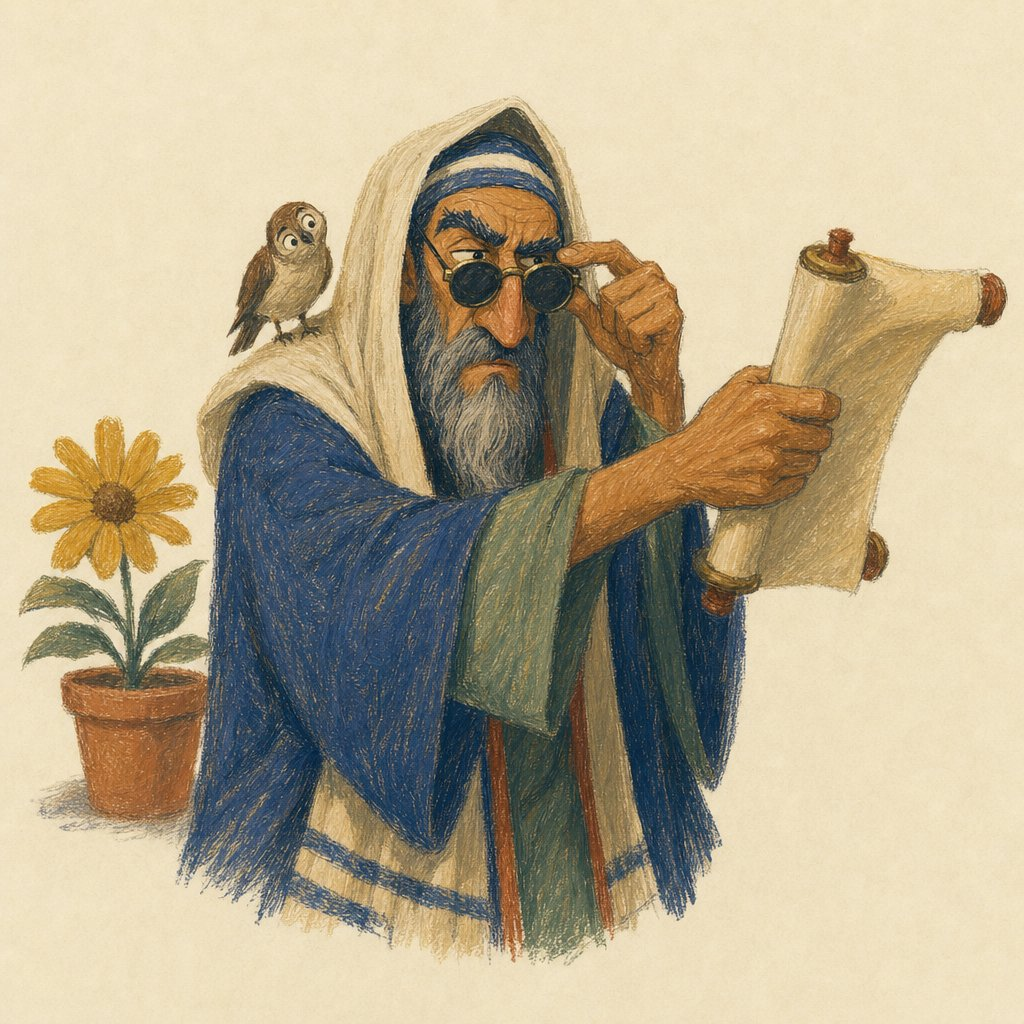
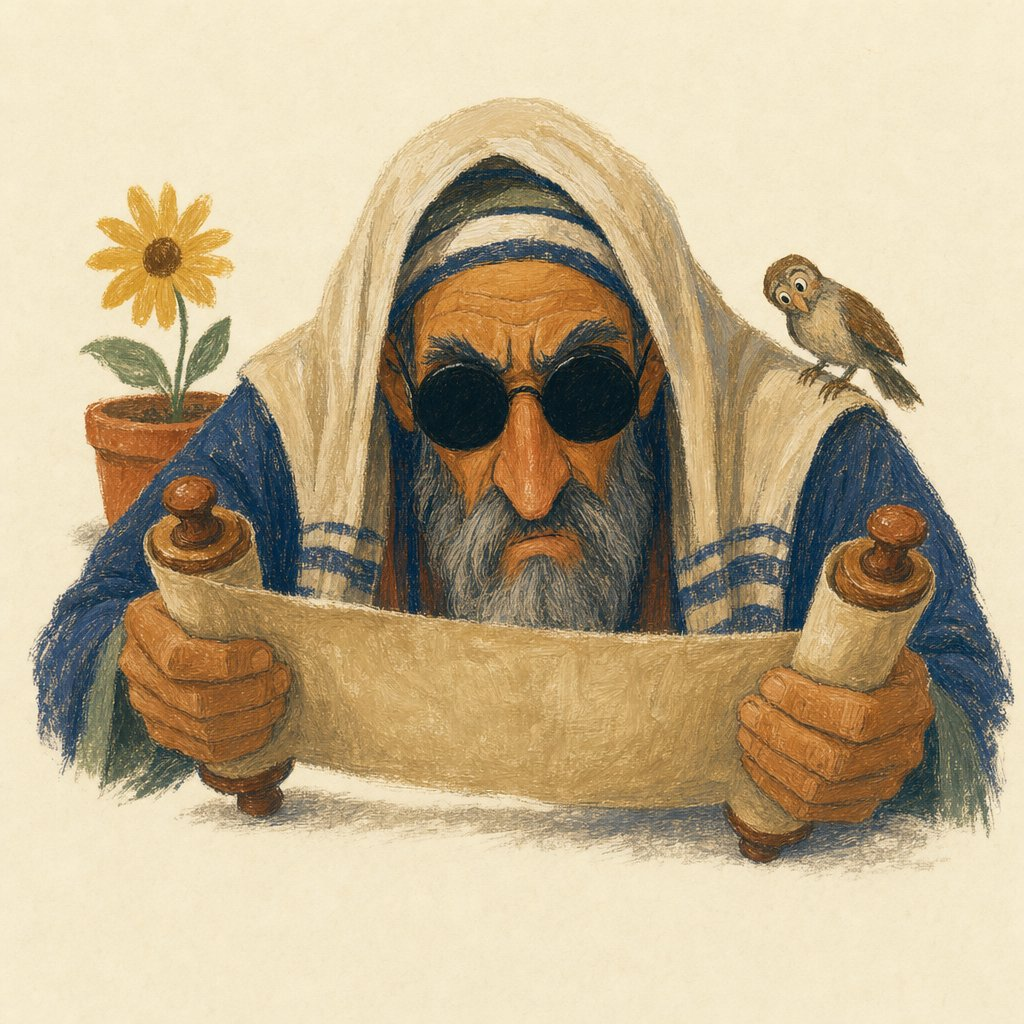
Add maps, timeline and fixed sunglasses spot

diff --git a/book/index.html b/book/index.html
@@ -10,7 +10,7 @@ p{line-height:1.5} h2{margin-top:2em;border-bottom:1px solid #2e3a6b33}
 </style>
 <p><a href="../">← style comparison</a></p>
 <h1>The Children's Book of John — first illustrations</h1>
-<p>These are the first 66 pictures for the book, drawn in style B
+<p>These are the first 69 pictures for the book, drawn in style B
 with the new palette. Next to each one is the idea behind it. Tap a picture to
 see it full size.</p>
 <p>What do you love? What feels wrong (a face, the tone, a detail)? Is anything
@@ -71,11 +71,15 @@ missing, or does any picture not fit how you tell the story?</p>
 <a href="img/03-dark-glasses.jpg"><img src="img/03-dark-glasses.jpg" loading=lazy></a>
 <div><h3>Dark Sunglasses</h3>
 <p class=meta>Small picture</p>
-<p>A funny close-up of Nicodemus wearing a pair of enormously dark round sunglasses, perched on his long nose under bushy eyebrows. He squints, frowning at a scroll held at arm&#x27;s length, trying to read. Behind him the world is perfectly bright, with a sunny flower in a pot, but he can&#x27;t see it. A tiny bird sits on his shoulder, peering at the glasses with a puzzled head tilt.</p></div></div><h2>John 4 — The Fountain Inside You</h2><div class=card>
+<p>A funny close-up of Nicodemus wearing a pair of enormous, completely black round sunglasses pushed firmly up against his face, so dark that his eyes cannot be seen at all: the lenses are solid black discs. He leans forward and frowns, nose almost touching a single open scroll he holds flat in front of him with both hands (one simple sheet unrolled sideways between two wooden rods), straining and failing to read it. Behind him the world is perfectly bright, with a sunny flower in a pot, but he can&#x27;t see it. A tiny bird sits on his shoulder, peering at the black glasses with a puzzled head tilt.</p></div></div><h2>John 4 — The Fountain Inside You</h2><div class=card>
 <a href="img/04-opener-fountain.jpg"><img src="img/04-opener-fountain.jpg" loading=lazy></a>
 <div><h3>The Fountain Inside</h3>
 <p class=meta>Chapter opener</p>
 <p>A looking-down view into a deep well, drawn as concentric rings of stone narrowing toward a dark circle of water far below. From the very centre, water is no longer sitting still: it is leaping up in a tall, joyful fountain. The fountain bursts out over the rim and spills off the edges of the page. In the spray at the top, the droplets form the faint outline of a heart. Strong geometry with loose, splashy brushwork.</p></div></div><div class=card>
+<a href="img/04-map-journey.jpg"><img src="img/04-map-journey.jpg" loading=lazy></a>
+<div><h3>Through Samaria</h3>
+<p class=meta>Map</p>
+<p>A hand-drawn pictorial map of the land in Jesus&#x27; day, like an explorer&#x27;s sketch, not a textbook. The Mediterranean Sea on the left with a little boat and a leaping fish. At the bottom dot, Jerusalem as a tiny walled hill-city with the temple. At the middle dot, Sychar: a small stone well beside a rounded holy mountain, with a tiny figure resting at the well. At the top, the lake (Sea of Galilee) with two little fishing boats; tiny villages at the dots for Cana and Nazareth west of the lake and Capernaum on its shore. The Jordan River is a wiggly ribbon running from the lake down to the Dead Sea. A dotted trail of small sandal footprints follows the path from Jerusalem north through Sychar to Cana. Little drawn details: a lone palm by the Dead Sea, a sleeping goat, olive trees, hills. No text at all.</p></div></div><div class=card>
 <a href="img/04-no-bucket.jpg"><img src="img/04-no-bucket.jpg" loading=lazy></a>
 <div><h3>No Bucket</h3>
 <p class=meta>Small picture</p>
@@ -96,6 +100,10 @@ missing, or does any picture not fit how you tell the story?</p>
 <div><h3>Wake Up!</h3>
 <p class=meta>Chapter opener</p>
 <p>A playful symbolic opener viewed from slightly above. Stone paving surrounds the edge of a pool with five arches suggested in a row. On the stones is a pale rectangular mark where a sleeping mat lay for thirty-eight years, worn into the ground. From that empty spot, a trail of footprints dances away: skipping, hopping, twirling. Far up the page the footprints lead to a rolled-up mat bouncing on a man&#x27;s shoulder, just leaving the frame. The water is perfectly still; it was not the stirring water that did it.</p></div></div><div class=card>
+<a href="img/05-timeline-feasts.jpg"><img src="img/05-timeline-feasts.jpg" loading=lazy></a>
+<div><h3>Jesus&#x27; Year of Feasts</h3>
+<p class=meta>Timeline</p>
+<p>A pictorial timeline of the festivals in John&#x27;s Gospel: one long winding road that starts at the top of the page and snakes down to the bottom, with five stops along it, alternating left and right, each a small symbolic vignette beside the road. Stop 1 (top): the temple with an overturned table and doves flying free. Stop 2: a pool with five arches and a rolled-up sleeping mat. Stop 3: a grassy hill with five little loaves and two fish in a basket. Stop 4: a small leafy booth made of branches with a big water jar and glowing lamps. Stop 5 (bottom): a donkey with palm branches and, next to it, a low table with bread and a cup. A tiny Jesus with a few friends walks the road near the top. Leave a clear patch of plain paper on the opposite side of the road from each vignette. No text, numbers or letters.</p></div></div><div class=card>
 <a href="img/05-want-to-be-well.jpg"><img src="img/05-want-to-be-well.jpg" loading=lazy></a>
 <div><h3>Do You Really Want to Be Well?</h3>
 <p class=meta>Small picture</p>
@@ -180,6 +188,10 @@ missing, or does any picture not fit how you tell the story?</p>
 <div><h3>The Whole House Smelled Beautiful</h3>
 <p class=meta>Small picture</p>
 <p>Mary of Bethany kneels with her loose reddish hair falling forward over Jesus&#x27; feet and the broken alabaster jar beside her. From the jar, scent rises in curling, loopy lines that drift across the room. Lazarus closes his eyes and smiles, Martha pauses with a pot in her hands, and a dog lifts its nose. In the corner one disciple frowns with arms crossed, the only one not enjoying it. Jesus looks down at Mary with deep tenderness, and a small glow rests between them.</p></div></div><div class=card>
+<a href="img/12-map-jerusalem.jpg"><img src="img/12-map-jerusalem.jpg" loading=lazy></a>
+<div><h3>Around Jerusalem</h3>
+<p class=meta>Map</p>
+<p>A playful bird&#x27;s-eye pictorial map of Jerusalem and its surroundings with no labels or writing. It shows the city walls and the big temple with its courts, a small pool with five arches (Bethesda) near a sheep gate, and another pool to the south (Siloam). East across a little valley is the Mount of Olives with olive trees, and beyond the hill is the village of Bethany with a tiny tall figure in a doorway. A donkey trots down the slope toward the city gate. A quiet garden with a cave lies just outside the wall. It should be charming and readable, like a treasure map.</p></div></div><div class=card>
 <a href="img/12-donkey-king.jpg"><img src="img/12-donkey-king.jpg" loading=lazy></a>
 <div><h3>A King on a Little Donkey</h3>
 <p class=meta>Small picture</p>
